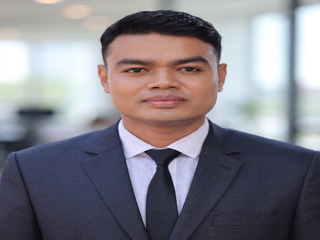
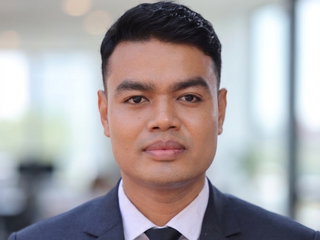
Remove temporary image compression script

diff --git a/_codas-hep-students/2026/suman0725.md b/_codas-hep-students/2026/suman0725.md
@@ -1,4 +1,3 @@
-```markdown
 ---
 layout: codas-hep-participant
 e-mail: sumasshresth@gmail.com
@@ -13,7 +12,7 @@ website:
 logos:
     - /assets/images/codas-hep/logos/CLAS_logo.png
     - /assets/images/codas-hep/logos/CLAS12_spectrometer.png
-    - /assets/images/codas-hep/logos/JeffersonLab-logo.jpeg
+    - /assets/images/codas-hep/logos/JeffersonLab_logo.jpeg
 ---
 
 ## My research:
@@ -35,4 +34,3 @@ Improving precision measurements of nuclear structure with CLAS12 while developi
 ## I want to know more about:
 
 Research software engineering, high-performance computing, collaborative open-source software development, workflow automation, and modern data analysis techniques for particle and nuclear physics.
-```
